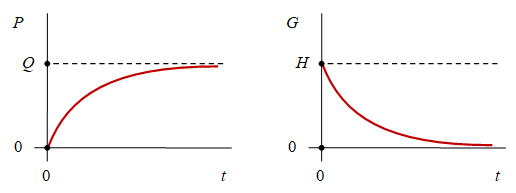
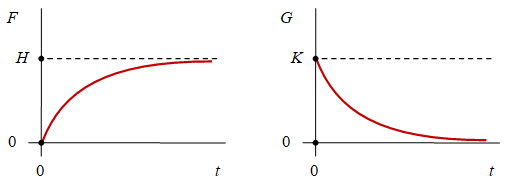
fin 0028

diff --git a/_posts/soal/02/2021-03-11-charging-a-capacitor-curve.md b/_posts/soal/02/2021-03-11-charging-a-capacitor-curve.md
@@ -18,4 +18,11 @@ Terdapat suatu rangkaian seri yang tersusun atas baterai $\varepsilon$, resistor
 
 ![..](/assets/img/soal/02/0028.png)
 
-<li>.
+Dengan sumbu datar merupakan waktu $t$, besaran-besaran $F$, $H$, $G$, dan $K$ pada kedua gambar di atas merupakan
+
+<ol type="A">
+<li> Muatan total $C\varepsilon$, muatan setiap saat $q$, arus setiap saat $I$, dan arus awal $\varepsilon / R$.
+<li> Muatan total $C\varepsilon$, muatan setiap saat $q$, arus awal $\varepsilon / R$, dan arus setiap saat $I$.
+<li> Muatan setiap saat $q$, muatan total $C\varepsilon$, arus setiap saat $I$, dan arus awal $\varepsilon / R$.
+<li> Muatan setiap saat $q$, muatan total $C\varepsilon$, arus awal $\varepsilon / R$, dan arus setiap saat $I$.
+<li> Muatan setiap saat $q$, arus awal $\varepsilon / R$, muatan total $C\varepsilon$, dan arus setiap saat $I$.
